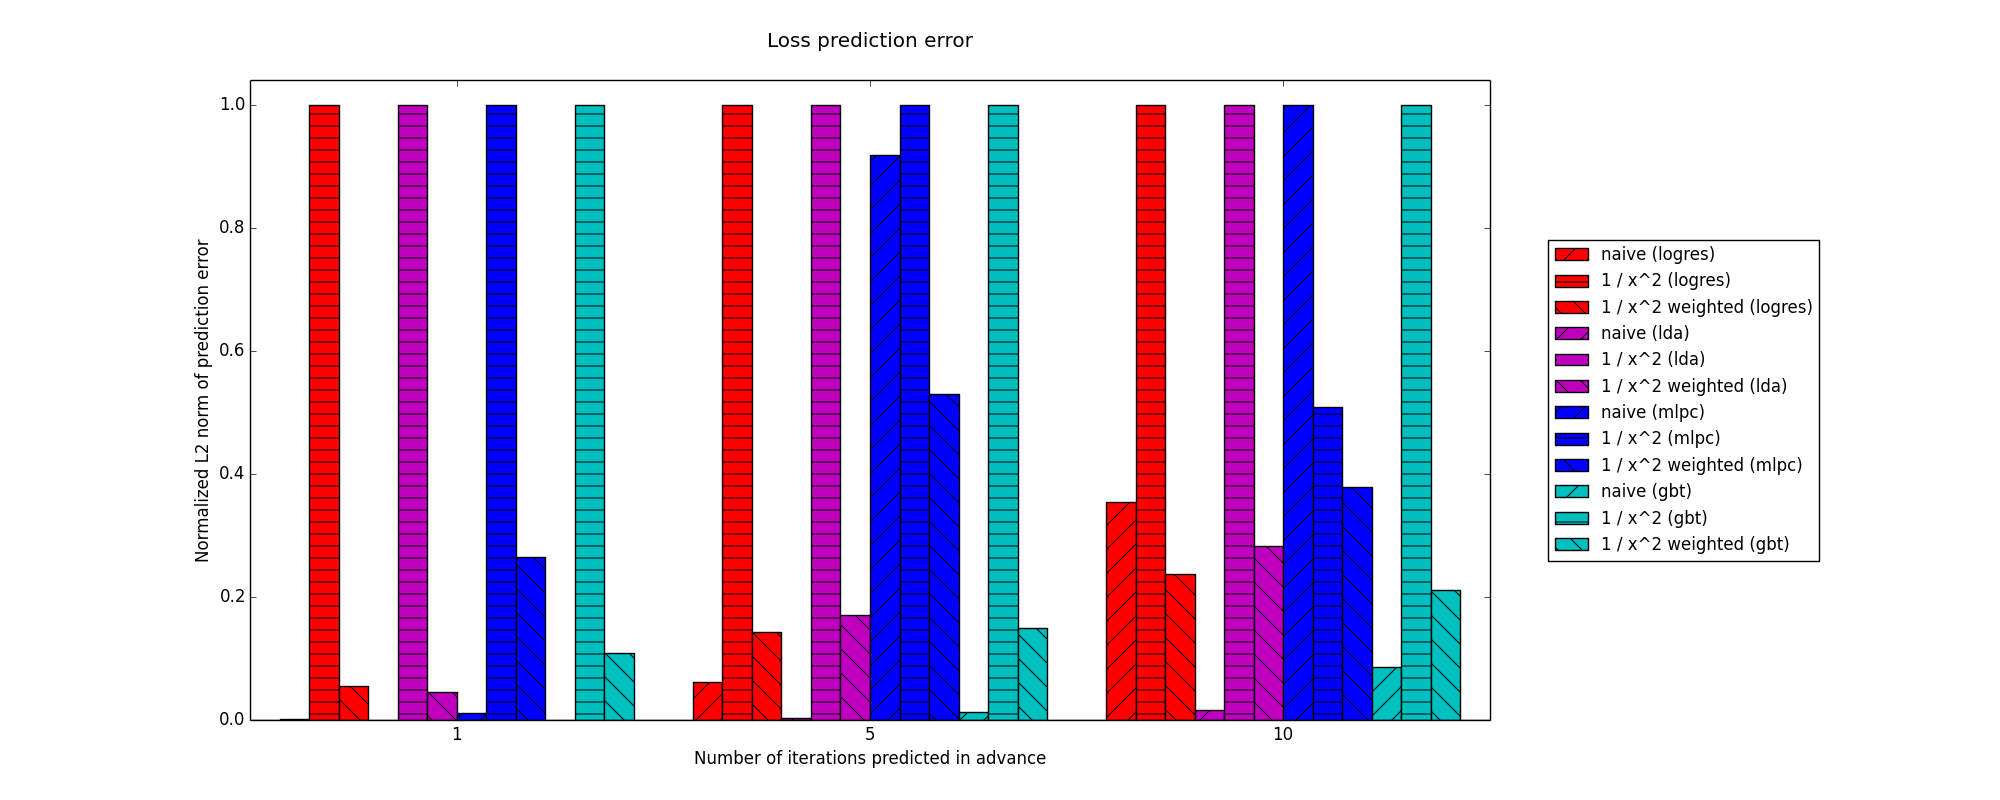
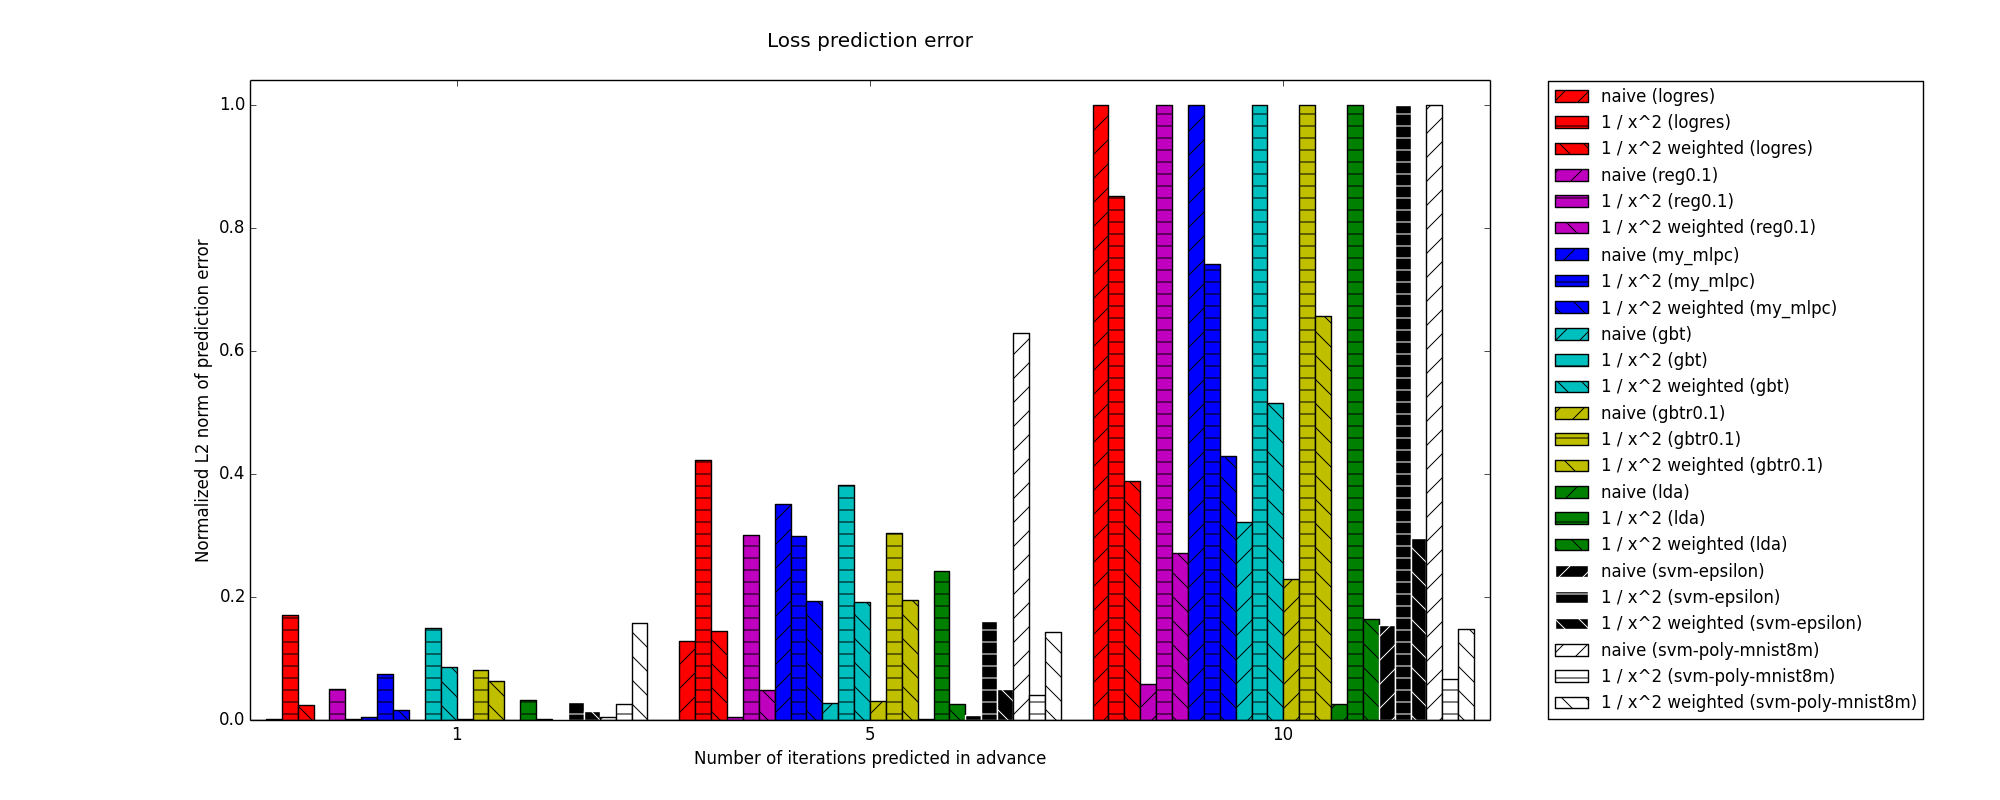
Put 8 algos on one graph using decay = 0.6

diff --git a/plotting/plot_l2.py b/plotting/plot_l2.py
@@ -7,7 +7,9 @@ import sys
 from os.path import join
 from plot import *
 
-iterations_of_interest = [1, 5, 10]
+iterations_of_interest = [1, 5, 10] # Must be length 3
+curve_to_fit = "one_over_x_squared"
+decay_to_fit = 0.6
 
 def get_data(path):
   l2 = []
@@ -22,11 +24,12 @@ def get_normalized_data(path1, path2, path3):
   data1 = get_data(path1)
   data2 = get_data(path2)
   data3 = get_data(path3)
+  # Normalize everything by the worst error
+  worst_error = max(data1 + data2 + data3)
   for i in range(len(data1)):
-    max_l2 = max(data1[i], data2[i], data3[i])
-    data1[i] = data1[i] / max_l2
-    data2[i] = data2[i] / max_l2
-    data3[i] = data3[i] / max_l2
+    data1[i] = data1[i] / worst_error
+    data2[i] = data2[i] / worst_error
+    data3[i] = data3[i] / worst_error
   return (data1, data2, data3)
 
 def main():
@@ -43,9 +46,9 @@ def main():
   num_bars_per_group = 2 + 3 * num_algorithms
   width = 1.0 / num_bars_per_group
   indices = np.arange(3)
-  log_file_names = ["avg_1.log", "cf_one_over_x_squared_1.log", "cf_one_over_x_squared_0.8.log"]
+  log_file_names = ["avg_1.log", "cf_%s_1.log" % curve_to_fit, "cf_%s_%s.log" % (curve_to_fit, decay_to_fit)]
   empty = [0, 0, 0]
-  color_cycle = ["r", "m", "b", "c", "y", "g", "k"]
+  color_cycle = ["r", "m", "b", "c", "y", "g", "k", "w"]
 
   # Start plotting
   fig, ax = plt.subplots(figsize=(20, 8))
@@ -59,9 +62,11 @@ def main():
     (naive, curve_fitting, curve_fitting_weighted) =\
       get_normalized_data(naive_path, curve_fitting_path, curve_fitting_weighted_path)
     base_indices = indices + 3 * width * i
-    bars += [ax.bar(base_indices + width, naive, width, color=color_cycle[i], hatch="/")]
-    bars += [ax.bar(base_indices + 2 * width, curve_fitting, width, color=color_cycle[i], hatch="-")]
-    bars += [ax.bar(base_indices + 3 * width, curve_fitting_weighted, width, color=color_cycle[i], hatch="\\")]
+    fill_color = color_cycle[i]
+    edge_color = "w" if fill_color == "k" else "k"
+    bars += [ax.bar(base_indices + width, naive, width, color=fill_color, edgecolor=edge_color, hatch="/")]
+    bars += [ax.bar(base_indices + 2 * width, curve_fitting, width, color=fill_color, edgecolor=edge_color, hatch="-")]
+    bars += [ax.bar(base_indices + 3 * width, curve_fitting_weighted, width, color=fill_color, edgecolor=edge_color, hatch="\\")]
   bars += [ax.bar(indices + (3 * num_algorithms + 1) * width, empty, width)]
   ax.set_ylabel("Normalized L2 norm of prediction error")
   ax.set_xlabel("Number of iterations predicted in advance")
@@ -78,7 +83,7 @@ def main():
   box = ax.get_position()
   ax.set_position([box.x0, box.y0, box.width * 0.8, box.height])
   ax.legend(legend_bars, legend_names, prop = {"size": 12}, loc = "center left", bbox_to_anchor=(1.04, 0.5))
-  plt.savefig(join(out_dir, "prediction_error_%s.png" % translate_name(curve_fitting_path)))
+  plt.savefig(join(out_dir, "prediction_error_%s.png" % translate_name(log_file_names[-1])))
 
 if __name__ == "__main__":
   main()
